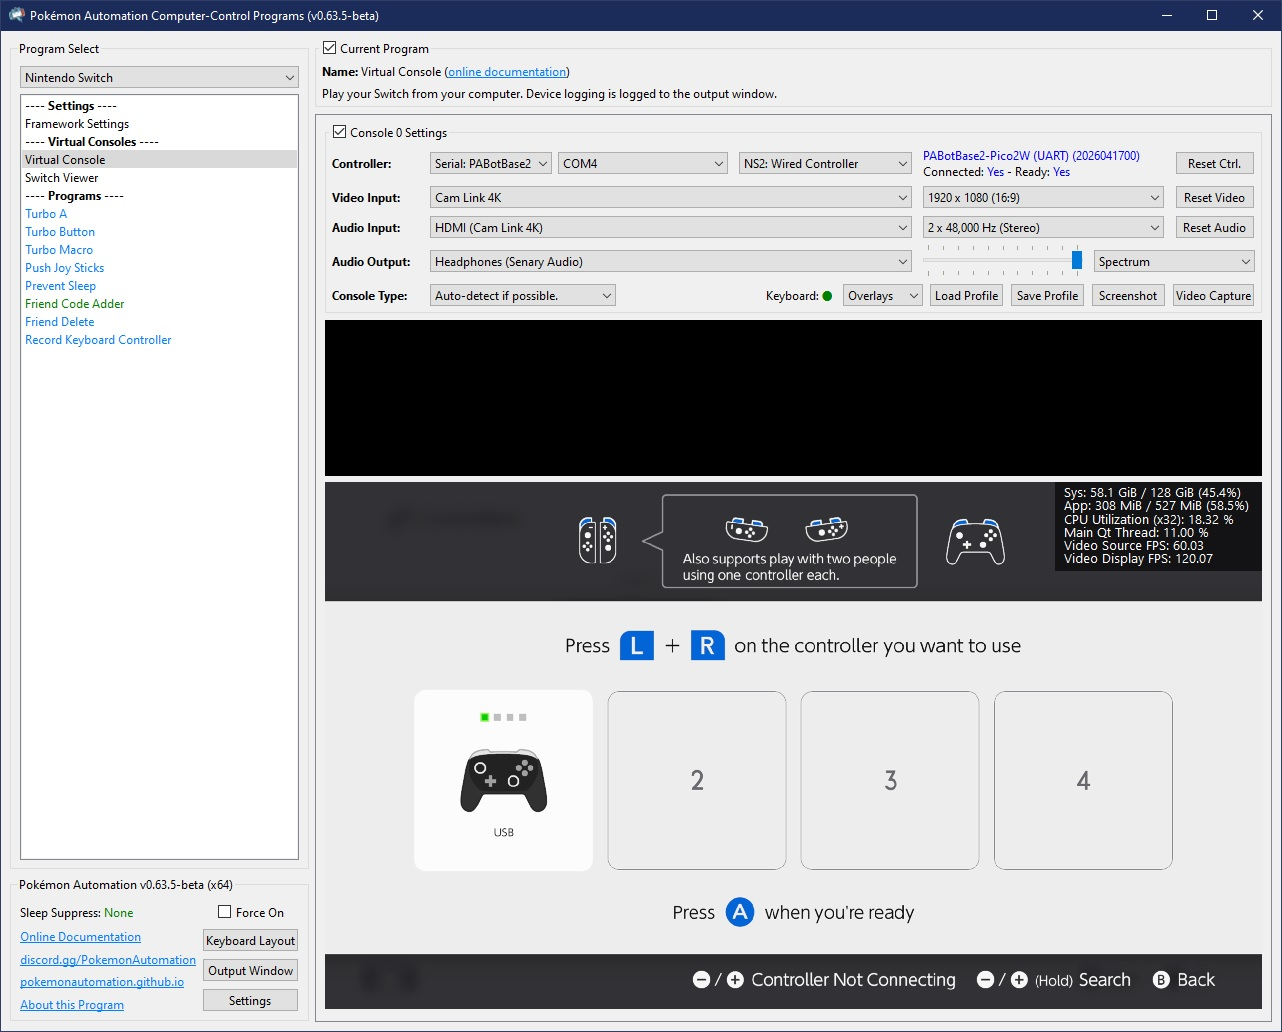
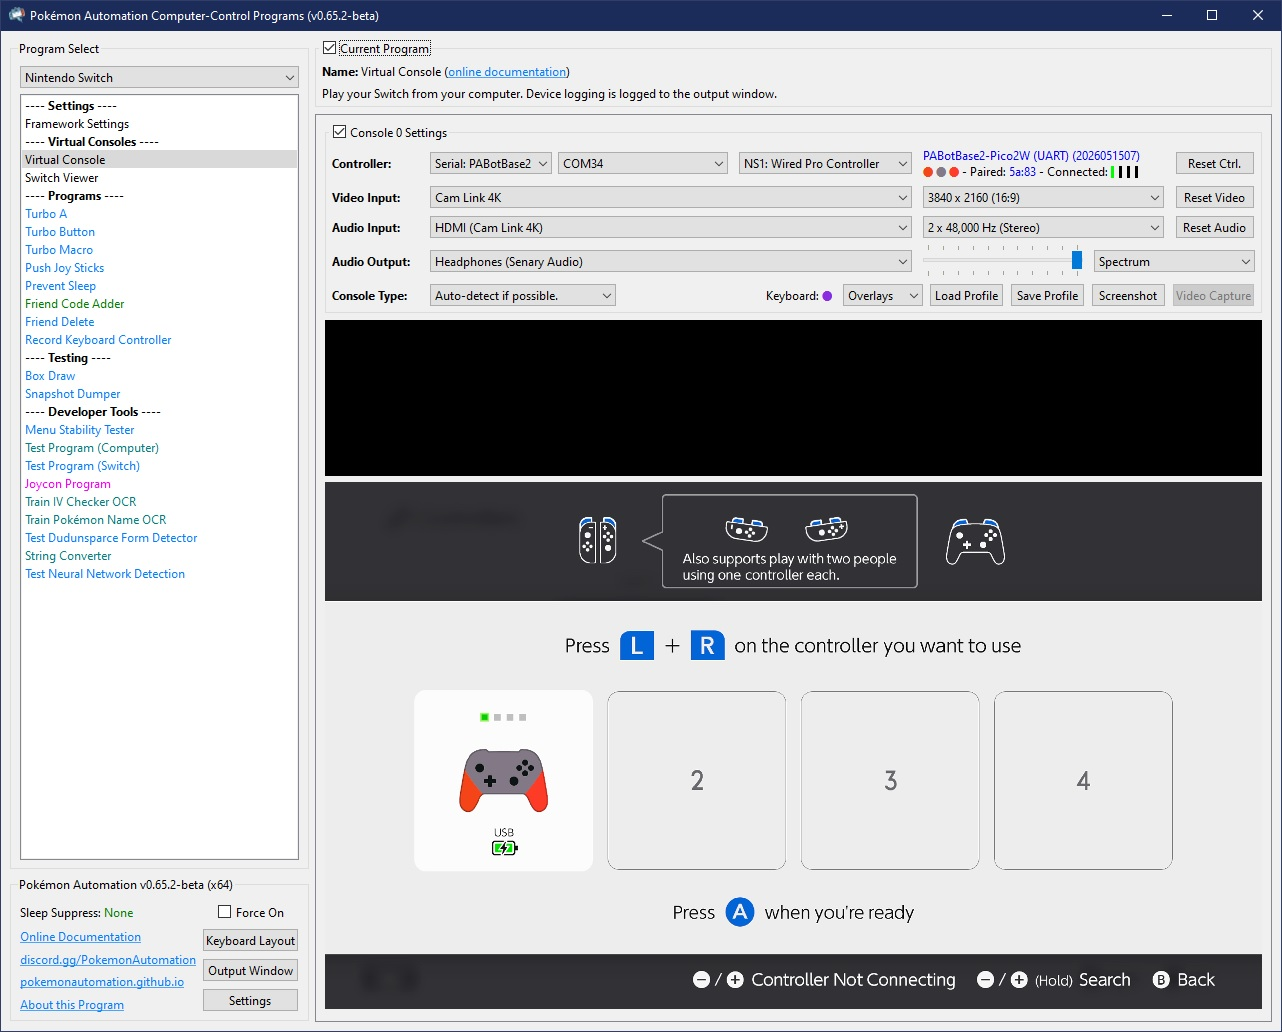
Pico UART

diff --git a/docs/SetupGuide/Controllers/Controller-PicoW-UART.md b/docs/SetupGuide/Controllers/Controller-PicoW-UART.md
@@ -136,7 +136,17 @@ Make sure you have everything else setup so that it looks like this:
 
 If not, you should go back to the [general setup guide](../index.md) and start over.
 
-### Step 1: Flash the firmware to the Pico W.
+
+### Step 1: Enable "Pro Controller Wired Communication".
+
+Go into your Switch settings and enable the following option. This step is required for wired Pro Controllers and Joycons.
+
+<img src="../../Images/Controllers/NS-ProControllerEnable.jpg">
+
+For those of you revisiting this page, you will notice that this step is new. This is because we have begun pushing everyone to use the Pro Controller since it has more features.
+
+
+### Step 2: Flash the firmware to the Pico W.
 
 1. Unplug the Pico from everything. (both computer and dock)
 2. Press and hold the white `Bootsel` button.
@@ -158,7 +168,8 @@ If not, you should go back to the [general setup guide](../index.md) and start o
 
 Note that the same firmware is used for both wireless and non-wireless Picos.
 
-### Step 2: Install UART drivers
+
+### Step 3: Install UART drivers
 
 If your computer doesn't recognize the UART as a COM port (serial device), you may need to install the UART drivers. If you brought the Adafruit UART in this guide, the driver you will need is this:
 
@@ -166,7 +177,8 @@ If your computer doesn't recognize the UART as a COM port (serial device), you m
 
 Open up Device Manager and look for it under "Serial Ports". If you don't see it, then maybe these above drivers are not correct. Or try a different USB port.
 
-### Step 3: Navigate to the Grip Menu
+
+### Step 4: Navigate to the Grip Menu
 
 The grip menu is the only place where a wireless controller can pair with the Switch. Wired controllers have more flexibility. But for simplicity, we'll go to the grip menu regardless.
 
@@ -174,7 +186,8 @@ To get there from the Switch Home screen: `Controllers` (button next to the Sett
 
 <img src="../Images/GripMenu3.png">
 
-### Step 4: Connect the Pico W to the Computer Control program
+
+### Step 5: Connect the Pico W to the Computer Control program
 
 1. At the top for the "Controller" option, click the dropdown and select `Serial: PABotBase2` (Make sure you choose `Serial: PABotBase2` and not `Serial: PABotBase`!)
 2. In the next dropdown, select your serial device. On Windows it will be something like `COM3`.
@@ -187,7 +200,8 @@ If everything worked correctly, it will look like this:
 
 If you see it stuck on `Connecting...`, try swapping the TX and RX lines between the Pico W and the UART. These are very commonly wrong!
 
-### Step 5: Connect the Pico W to the Switch as a Wireless Controller
+
+### Step 6: Connect the Pico W to the Switch as a Wireless Controller
 
 **(If your Pico is a non-W model that lacks the wireless capability, skip this step.)**
 
@@ -195,30 +209,29 @@ In the 3rd dropdown, choose "NS1: Wireless Pro Controller".
 
 After a few seconds, you should see a controller pop-up in the Grip menu on the Switch. If not, try rebooting the Pico W by pressing the `Bootsel` button or be unplugging and replugging it. Lastly, try rebooting the Switch since sometimes it can get into a state where it refuses to accept controllers.
 
-<img src="../Images/PicoW/ControllerSetup-PicoW-UART-Wireless-Ready-Annotated.jpg">
+<img src="../Images/PicoW/ControllerSetup-PicoW-UART-Wireless-Ready.jpg">
 
 **Status Indicator:**
 
 - The 3 colored dots should match the colors of the controller as shown in the Switch. This helps to distinguish controllers if you have multiple of them. You can change the colors in the `Nintendo Switch -> Framework Settings` menu.
-- The four alpha-numeric characters after "Paired" are the last 2 bytes of the MAC address of the Switch that the controller is paired with.
+- The four alpha-numeric characters after `Paired:` are the last 2 bytes of the MAC address of the Switch that the controller is paired with.
 - The 4 vertical lines after `Connected:` are the player lights that are normally found on a real controller.
 
 
-### Step 6: Connect the Pico W to the Switch as a Wired Controller
+### Step 7: Connect the Pico W to the Switch as a Wired Controller
 
 Now lets try a wired connection:
 
-1. In the controller drop, choose "NS2: Wired Controller". Wait for it to show `Connected: Yes, Ready: Yes`.
-2. Click the video feed to activate the keyboard controls. Then press ENTER on your keyboard.
-
-You should now see a black controller show up.
+In the controller drop, choose "NS1: Wired Pro Controller". You will now see "USB" appear above the battery indicator. This means your controller has now switched to a wired connection!
 
 <img src="../Images/PicoW/ControllerSetup-PicoW-UART-Wired-Ready.jpg">
 
 Even though we used the grip menu here, wired controllers will connect from almost anywhere.
 
+While this wiki has you first connecting wirelessly then wired, in reality you can do it in either order. If you connect by wired first, it will automatically pair it for wireless as well just like a real controller! Thus you can actually avoid the grip menu altogether.
 
-### Step 6: Test the connection
+
+### Step 8: Test the connection
 
 You can control your Switch from the keyboard. Click on the video display to activate the keyboard controls. Then try pressing some buttons. You can view the keyboard -> controller mapping by clicking on the "keyboard layout" at the bottom left corner of the program.
 
@@ -247,10 +260,6 @@ You will notice that there are 10 controller options:
 
 Click on the link for detailed documentation for the controller type. "None" simply idles the Pico and turns off its antenna so it isn't trying to connect to a Switch. The others tell the Pico to act as that controller respectively. Setting to "None" is a convenient way to disconnect the Pico so you can connect your physical controller.
 
-Note that the Wired Pro Controller and Joycon controllers require enabling an additional option in the Switch settings:
-
-<img src="../../Images/Controllers/NS-ProControllerEnable.jpg">
-
 Every time you press "Reset Ctrl" or change the controller type, it will disconnect from your Switch and try to reconnect using the new controller type. If the new controller is a wireless controller that has not been previously paired with the Switch, you will need to be in the Grip menu for the new controller to pair. See [Pairing Behavior](#pairing-behavior).
 
 Changing programs (or even closing the application entirely) will not disconnect the Pico from the Switch. When you load a program and connect to the Pico, it will automatically continue its previous connection to the Switch (and change the controller dropdown accordingly).
@@ -277,16 +286,16 @@ Continue on to [Finishing Up](../index.md#step-4-finishing-up)!
 
 ## Pairing Behavior:
 
-When you connect a wireless controller to the Switch, it will remember its pairing state with that Switch. Each wireless controller has a separate pairing state. So pairing one will not automatically pair the others.
+When you connect a Pro Controller or a Joycon to the Switch, it will remember its pairing state with that Switch. Wired and wireless version of the same controller share the same pairing state. So pairing one will automatically pair the other. However each different controller type has a separate pairing state. So pairing the left joycon will not automatically pair the right joycon.
 
 Keep in mind the following behaviors:
 
-- When you switch from a different controller to a wireless controller that was previous paired, it will reconnect to the same console it is paired with.
+- When you switch from a different controller to a controller that was previous paired, it will reconnect to the same console it is paired with.
 - When you click "Reset Ctrl", it will disconnect and try to reconnect to the console that it was paired with.
 - When you SHIFT + click "Reset Ctrl", not only does it reset, it will clear the pairing state and try to pair with a new console.
 - The Pico will forget its pairing state when it loses power. So unlike a real controller, it is not stored in non-volatile memory.
 
-Once a Pico controller is paired with a console, it will be able to reconnect outside of the grip menu.
+Once a Pico controller is paired with a console, it will be able to reconnect wirelessly outside of the grip menu.
 
 
 ## Troubleshooting:

diff --git a/docs/SetupGuide/Controllers/Controller-ESP32-WROOM-MacOS.md b/docs/SetupGuide/Controllers/Controller-ESP32-WROOM-MacOS.md
@@ -185,7 +185,7 @@ After 5 seconds, you should see a controller pop-up in the Grip menu on the Swit
 **Status Indicator:**
 
 - The 3 colored dots should match the colors of the controller as shown in the Switch. This helps to distinguish controllers if you have multiple of them. You can change the colors in the `Nintendo Switch -> Framework Settings` menu.
-- The four alpha-numeric characters after "Paired" are the last 2 bytes of the MAC address of the Switch that the controller is paired with.
+- The four alpha-numeric characters after `Paired:` are the last 2 bytes of the MAC address of the Switch that the controller is paired with.
 - The 4 vertical lines after `Connected:` are the player lights that are normally found on a real controller.
 
 

diff --git a/docs/SetupGuide/Controllers/Controller-ESP32-WROOM.md b/docs/SetupGuide/Controllers/Controller-ESP32-WROOM.md
@@ -177,7 +177,7 @@ After 5 seconds, you should see a controller pop-up in the Grip menu on the Swit
 **Status Indicator:**
 
 - The 3 colored dots should match the colors of the controller as shown in the Switch. This helps to distinguish controllers if you have multiple of them. You can change the colors in the `Nintendo Switch -> Framework Settings` menu.
-- The four alpha-numeric characters after "Paired" are the last 2 bytes of the MAC address of the Switch that the controller is paired with.
+- The four alpha-numeric characters after `Paired:` are the last 2 bytes of the MAC address of the Switch that the controller is paired with.
 - The 4 vertical lines after `Connected:` are the player lights that are normally found on a real controller.
 
 

diff --git a/docs/SetupGuide/Controllers/Controller-PicoW-USB.md b/docs/SetupGuide/Controllers/Controller-PicoW-USB.md
@@ -142,7 +142,7 @@ After a few seconds, you should see a controller pop-up in the Grip menu on the 
 **Status Indicator:**
 
 - The 3 colored dots should match the colors of the controller as shown in the Switch. This helps to distinguish controllers if you have multiple of them. You can change the colors in the `Nintendo Switch -> Framework Settings` menu.
-- The four alpha-numeric characters after "Paired" are the last 2 bytes of the MAC address of the Switch that the controller is paired with.
+- The four alpha-numeric characters after `Paired:` are the last 2 bytes of the MAC address of the Switch that the controller is paired with.
 - The 4 vertical lines after `Connected:` are the player lights that are normally found on a real controller.
 
 
